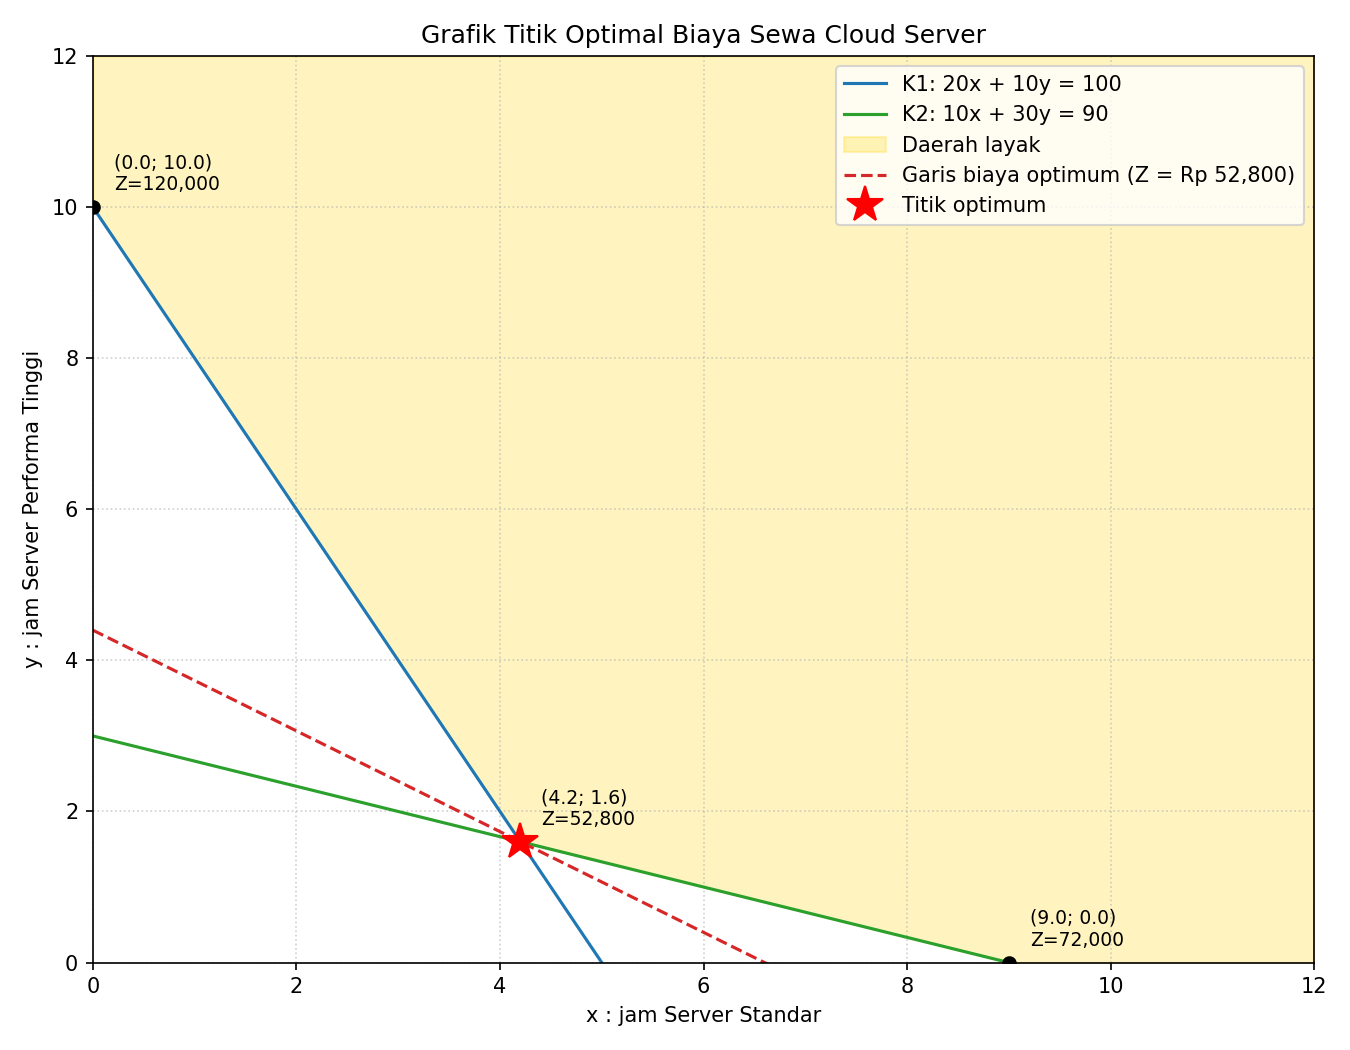
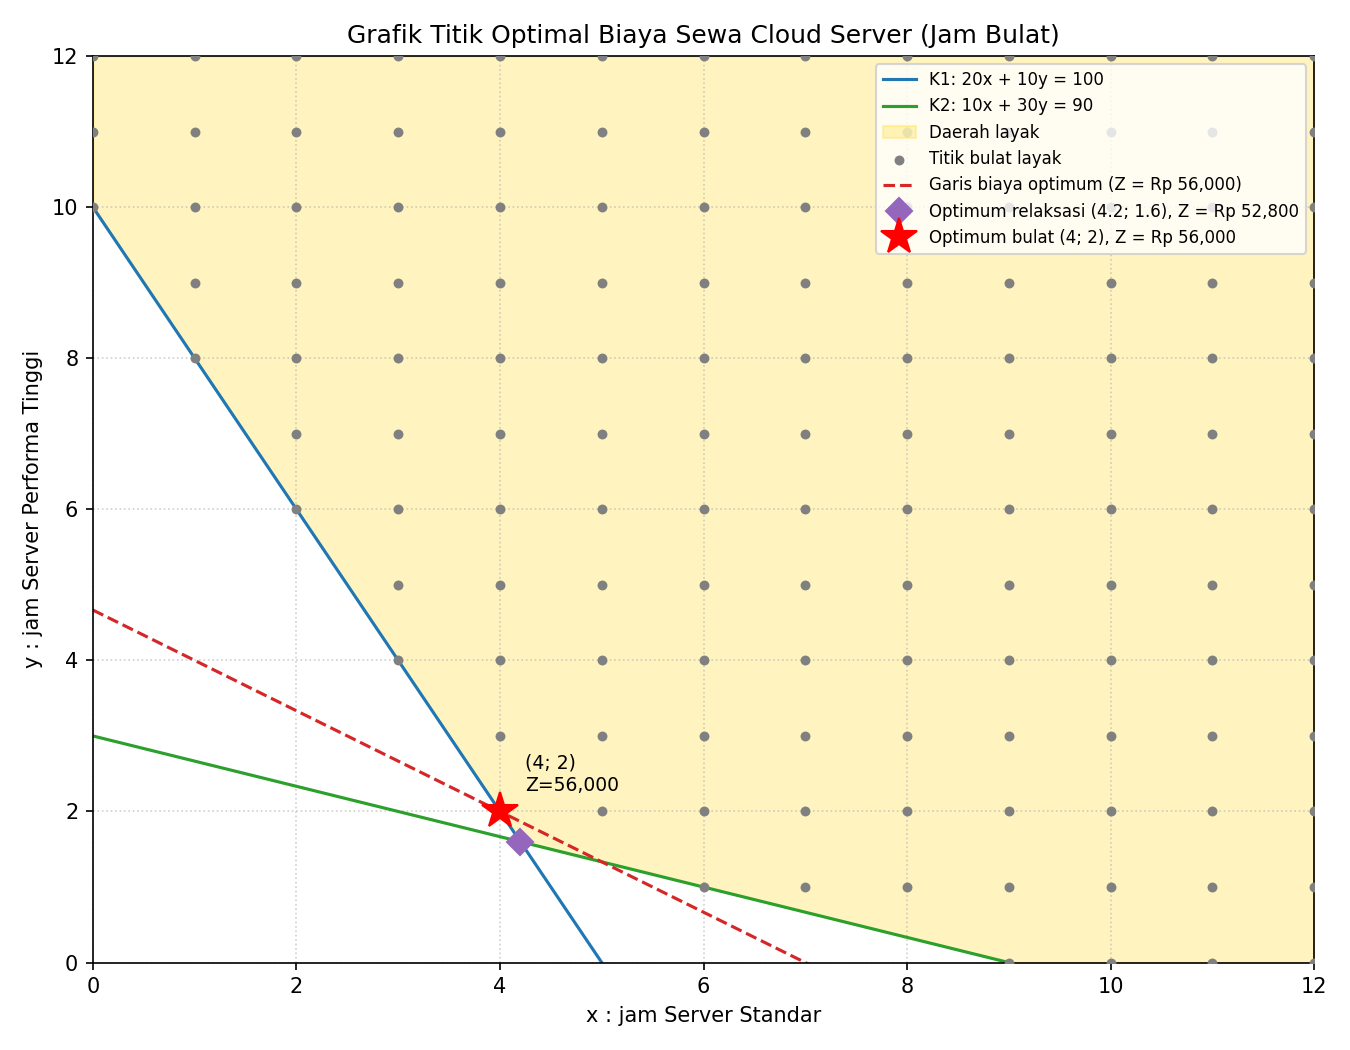
revisi code (bilangan bulat)

diff --git a/optimisasiBiaya.py b/optimisasiBiaya.py
@@ -11,7 +11,7 @@ A = np.array([[20, 10],    # pemrosesan data
               [0, 1]])     # y >= 0
 b = np.array([100, 90, 0, 0])
 
-# enumerasi titik pojok
+# langkah 1: relaksasi linear (enumerasi titik pojok)
 titik_layak = []
 for i, j in itertools.combinations(range(len(b)), 2):
     M = A[[i, j]]
@@ -29,26 +29,43 @@ for p in titik_layak:
 titik_layak = sorted(unik, key=lambda p: p[0])
 
 nilai_Z = [float(biaya @ p) for p in titik_layak]
-idx_opt = int(np.argmin(nilai_Z))
-x_opt, y_opt = titik_layak[idx_opt]
-z_opt = nilai_Z[idx_opt]
+idx_lp = int(np.argmin(nilai_Z))
+x_lp, y_lp = titik_layak[idx_lp]
+z_lp = nilai_Z[idx_lp]
+
+# langkah 2: pencarian solusi bilangan bulat
+# batas 0..12 sudah cukup: (9,0) layak dengan Z = 72.000, sehingga x > 9
+# atau y > 6 pasti lebih mahal dari itu
+bulat_layak = []
+for xi in range(0, 13):
+    for yi in range(0, 13):
+        if np.all(A @ np.array([xi, yi]) >= b):
+            bulat_layak.append((xi, yi, int(biaya @ np.array([xi, yi]))))
+
+bulat_layak.sort(key=lambda t: (t[2], t[0]))
+x_opt, y_opt, z_opt = bulat_layak[0]
 
 # output
-print("OPTIMASI BIAYA SEWA CLOUD SERVER")
+print("OPTIMASI BIAYA SEWA CLOUD SERVER (JAM BULAT)")
 print("=" * 50)
 print("Model:")
 print("Minimasi Z = 8000x + 12000y")
 print("20x + 10y >= 100   (pemrosesan data)")
 print("10x + 30y >= 90    (akses basis data)")
-print("x, y >= 0")
+print("x, y >= 0 dan bilangan bulat")
 print("-" * 50)
-print("Titik pojok daerah layak dan nilai Z:")
+print("Langkah 1 - Relaksasi linear (jam boleh pecahan):")
 for p, z in zip(titik_layak, nilai_Z):
     print(f"(x={p[0]:.1f}, y={p[1]:.1f})  ->  Z = Rp {z:,.0f}")
+print(f"Optimum relaksasi: x={x_lp:.1f}, y={y_lp:.1f}, Z = Rp {z_lp:,.0f} (tidak bulat)")
+print("-" * 50)
+print("Langkah 2 - 5 kombinasi jam bulat layak termurah:")
+for xi, yi, zi in bulat_layak[:5]:
+    print(f"(x={xi}, y={yi})  ->  Z = Rp {zi:,.0f}")
 print("-" * 50)
 print("HASIL AKHIR:")
-print(f"Server Standar          : {x_opt:.1f} jam")
-print(f"Server Performa Tinggi  : {y_opt:.1f} jam")
+print(f"Server Standar          : {x_opt} jam")
+print(f"Server Performa Tinggi  : {y_opt} jam")
 print(f"Biaya sewa minimum      : Rp {z_opt:,.0f}")
 
 # grafik
@@ -64,27 +81,33 @@ ax.plot(x, y_k2, label="K2: 10x + 30y = 90", color="tab:green")
 ax.fill_between(x, batas_bawah, y_atas, alpha=0.25, color="gold",
                 label="Daerah layak")
 
-# garis melalui titik optimum
+# titik bulat layak
+bx = [t[0] for t in bulat_layak]
+by = [t[1] for t in bulat_layak]
+ax.scatter(bx, by, s=14, color="gray", zorder=3, label="Titik bulat layak")
+
+# garis biaya melalui titik optimum bulat
 y_iso = (z_opt - biaya[0] * x) / biaya[1]
 ax.plot(x, y_iso, "--", color="tab:red",
         label=f"Garis biaya optimum (Z = Rp {z_opt:,.0f})")
 
-# titik pojok
-for p, z in zip(titik_layak, nilai_Z):
-    ax.plot(p[0], p[1], "ko")
-    ax.annotate(f"({p[0]:.1f}; {p[1]:.1f})\nZ={z:,.0f}", (p[0], p[1]),
-                textcoords="offset points", xytext=(10, 8), fontsize=9)
+# titik optimum relaksasi
+ax.plot(x_lp, y_lp, "D", color="tab:purple", markersize=9, zorder=4,
+        label=f"Optimum relaksasi ({x_lp:.1f}; {y_lp:.1f}), Z = Rp {z_lp:,.0f}")
 
-# titik optimum
-ax.plot(x_opt, y_opt, "r*", markersize=18, label="Titik optimum")
+# titik optimum bulat
+ax.plot(x_opt, y_opt, "r*", markersize=18, zorder=5,
+        label=f"Optimum bulat ({x_opt}; {y_opt}), Z = Rp {z_opt:,.0f}")
+ax.annotate(f"({x_opt}; {y_opt})\nZ={z_opt:,.0f}", (x_opt, y_opt),
+            textcoords="offset points", xytext=(12, 10), fontsize=9)
 
 ax.set_xlim(0, 12)
 ax.set_ylim(0, y_atas)
 ax.set_xlabel("x : jam Server Standar")
 ax.set_ylabel("y : jam Server Performa Tinggi")
-ax.set_title("Grafik Titik Optimal Biaya Sewa Cloud Server")
+ax.set_title("Grafik Titik Optimal Biaya Sewa Cloud Server (Jam Bulat)")
 ax.grid(True, linestyle=":", alpha=0.6)
-ax.legend(loc="upper right")
+ax.legend(loc="upper right", fontsize=8)
 plt.tight_layout()
 plt.savefig("grafik_optimal.png", dpi=150)
 plt.show()
